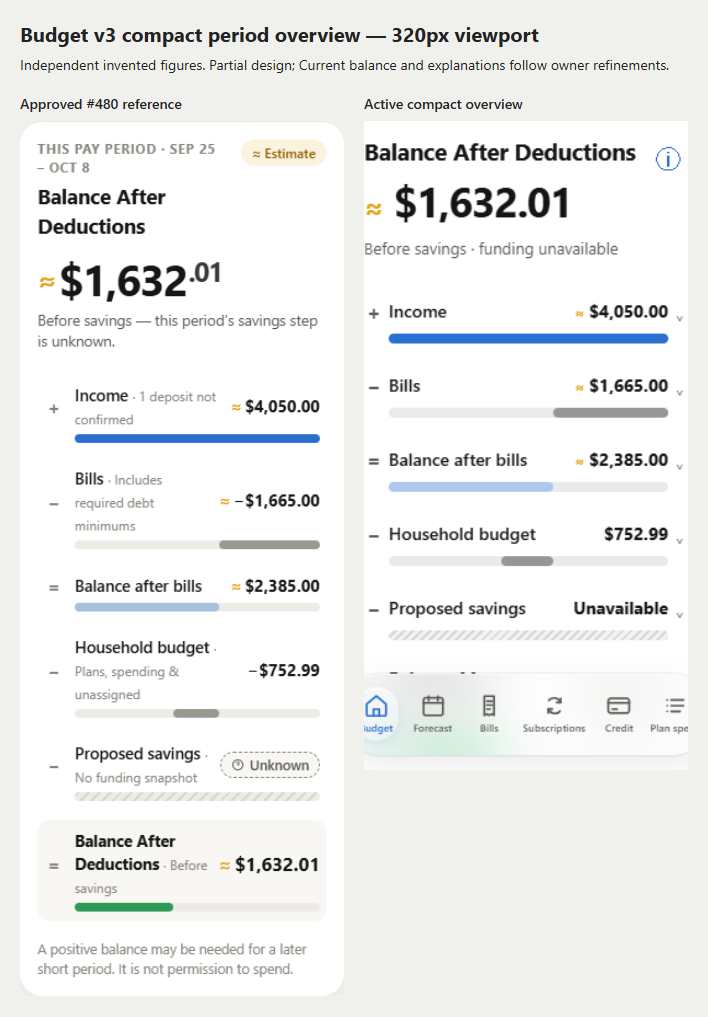
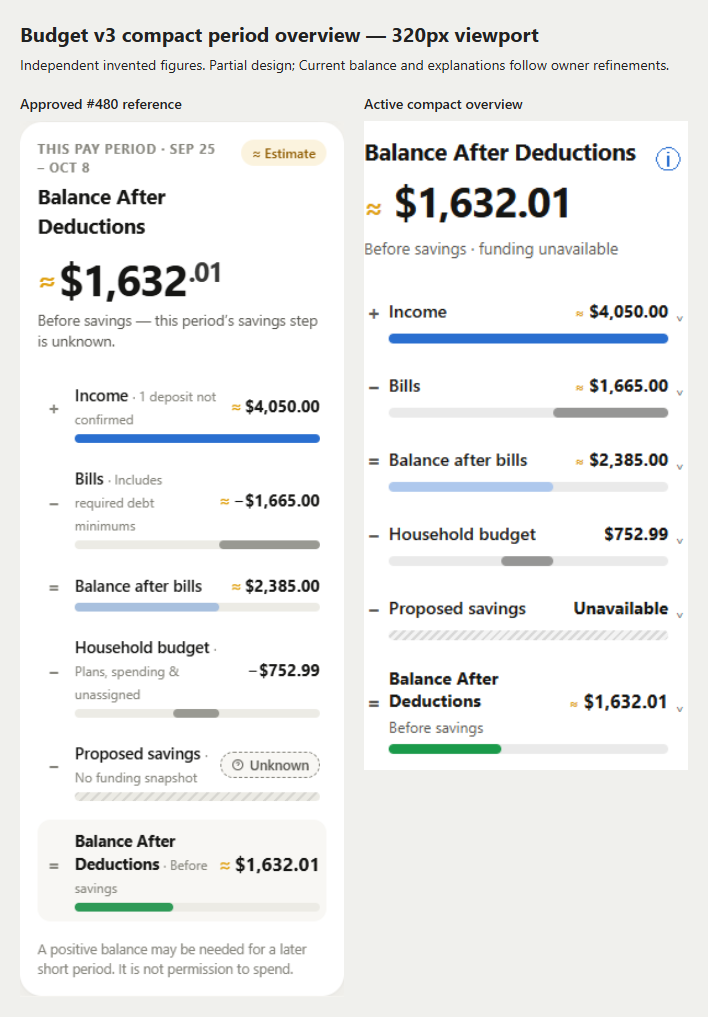
Keep keyboard focus clear of mobile navigation and refresh complete card comparisons

diff --git a/test/browser-budget-v3-period.js b/test/browser-budget-v3-period.js
@@ -67,11 +67,18 @@ async function geometry(page) {
       assert.equal(await page.locator('[data-from-today-proposal]').isVisible(), false);
       assert.equal(await page.locator('.budget-surface-today').evaluate(el => getComputedStyle(el).position), 'static');
       await page.screenshot({ path: path.join(screenshots, `current-${width}.png`), fullPage: true });
-      await page.locator('[data-calendar-waterfall]').screenshot({ path: path.join(screenshots, `period-${width}.png`) });
+      const periodCropStyle = '.sitenav-household { visibility:hidden !important; }';
+      await page.locator('[data-calendar-waterfall]').screenshot({ path: path.join(screenshots, `period-${width}.png`), style: periodCropStyle });
       // Native disclosures remain reachable, keep focus, and expose the real evidence.
       for (const id of ['02', '04', '05', '06', 'savings', '07']) {
         const summary = page.locator(`[data-operating-question="${id}"] > details > summary`);
         await summary.focus();
+        const focusBounds = await summary.evaluate(el => {
+          const r = el.getBoundingClientRect(), dock = document.querySelector('.sitenav-household');
+          const dockTop = dock && getComputedStyle(dock).position === 'fixed' ? dock.getBoundingClientRect().top : innerHeight;
+          return {top:r.top,bottom:r.bottom,limit:dockTop};
+        });
+        assert.ok(focusBounds.top >= 0 && focusBounds.bottom <= focusBounds.limit, `period focus clear of dock: ${JSON.stringify(focusBounds)}`);
         await page.keyboard.press('Enter');
         assert.equal(await summary.evaluate(el => el.parentElement.open), true);
         assert.equal(await summary.evaluate(el => el === document.activeElement), true);
@@ -169,7 +176,7 @@ async function geometry(page) {
           assert.equal(await page.locator('.budget-waterfall-bar').count(), 0);
         }
         await page.screenshot({ path: path.join(screenshots, `${name}-${width}.png`), fullPage: true });
-        await page.locator('[data-calendar-waterfall]').screenshot({ path: path.join(screenshots, `${name}-period-${width}.png`) });
+        await page.locator('[data-calendar-waterfall]').screenshot({ path: path.join(screenshots, `${name}-period-${width}.png`), style: periodCropStyle });
       }
       // Configured pools with unknown assignments must retain the withholding reason.
       data = fx.served({ withheldSavings: true }); await boot(); await geometry(page);
@@ -211,7 +218,7 @@ async function geometry(page) {
       assert.deepEqual({ deficit: savingsTrack.deficit, unknown: savingsTrack.unknown }, { deficit: false, unknown: true });
       assert.ok(savingsTrack.hatch.includes('repeating-linear-gradient'), 'unavailable savings keep the hatch');
       await page.screenshot({ path: path.join(screenshots, `levy-deficit-${width}.png`), fullPage: true });
-      await page.locator('[data-calendar-waterfall]').screenshot({ path: path.join(screenshots, `levy-deficit-period-${width}.png`) });
+      await page.locator('[data-calendar-waterfall]').screenshot({ path: path.join(screenshots, `levy-deficit-period-${width}.png`), style: periodCropStyle });
       // Preserve the concurrent no-observation zero-income regression separately
       // from the observation/overlay fixture, which retains actual Other Spend.
       data = fx.served({ zeroIncomeWithoutSpend: true }); await boot(); await geometry(page);
@@ -230,7 +237,7 @@ async function geometry(page) {
       assert.equal((await trackState('savings')).unknown, true);
       assert.ok((await trackState('savings')).hatch.includes('repeating-linear-gradient'));
       await page.screenshot({ path: path.join(screenshots, `zero-income-no-observations-${width}.png`), fullPage: true });
-      await page.locator('[data-calendar-waterfall]').screenshot({ path: path.join(screenshots, `zero-income-no-observations-period-${width}.png`) });
+      await page.locator('[data-calendar-waterfall]').screenshot({ path: path.join(screenshots, `zero-income-no-observations-period-${width}.png`), style: periodCropStyle });
       await page.close();
       console.log(`PASS ${width}px: financial hero, geometry, evidence, keyboard reachability, focus restoration, unknown assignments, unavailable plan and known deficit`);
     }

diff --git a/public/budget-surface.css b/public/budget-surface.css
@@ -169,6 +169,7 @@
 .budget-period-info[open] { margin-top:36px; padding:12px; border:1px solid var(--border); border-radius:12px; }
 .budget-surface .budget-period-info .operating-note { text-transform:none; letter-spacing:0; font-weight:400; color:var(--text-secondary); font-size:13px; }
 .budget-surface .budget-step-value .est { display:inline; }
+.budget-surface .budget-step-summary { scroll-margin-block:90px; }
 .budget-surface .budget-period-result-value { font-size:clamp(34px,4vw,48px); }
 .budget-surface .budget-period-result-value .est { display:inline; font-size:.65em; }
 

diff --git a/public/plan.js b/public/plan.js
@@ -4837,6 +4837,11 @@ function wireBudgetGranularity(mount, ctx) {
 }
 
 function wirePlanLookPicker(mount, ctx) {
+  mount.addEventListener('focusin', event => {
+    if (event.target.matches('.budget-step-summary')) {
+      event.target.scrollIntoView({ block: 'nearest', inline: 'nearest' });
+    }
+  });
   mount.querySelectorAll('.budget-period-info').forEach(info => {
     info.addEventListener('keydown', event => {
       if (event.key === 'Escape' && info.open) {

diff --git a/docs/design/budget-v3-compact-overview/README.md b/docs/design/budget-v3-compact-overview/README.md
@@ -78,9 +78,15 @@ Actual approved-reference comparisons for the compact period card:
 [1440px](comparison-1440.png), [390px](comparison-390.png),
 [320px](comparison-320.png). Remaining header/navigation differences remain
 visible in the full overview captures and are not claimed complete.
+Comparison crops hide the fixed Pages dock to show the complete card, matching
+the reference crop. Full runtime captures keep the actual navigation. Browser
+checks prove keyboard-focused period rows scroll clear of the real dock.
 Additional narrow-mobile proof: [unknown assignments](withheld-320.png),
 [negative spending account](negative-spending-320.png),
 [observed grocery overrun](overspending-320.png).
+Inherited signed-state proof with the compact styling:
+[deficit](deficit-320.png), [signed overflow](overflow-320.png),
+[known zero income](zero-income-320.png).
 
 The captures load production `index.html`, App.boot, Forecast and the active
 Budget renderer. All requests are intercepted with independent invented data;
